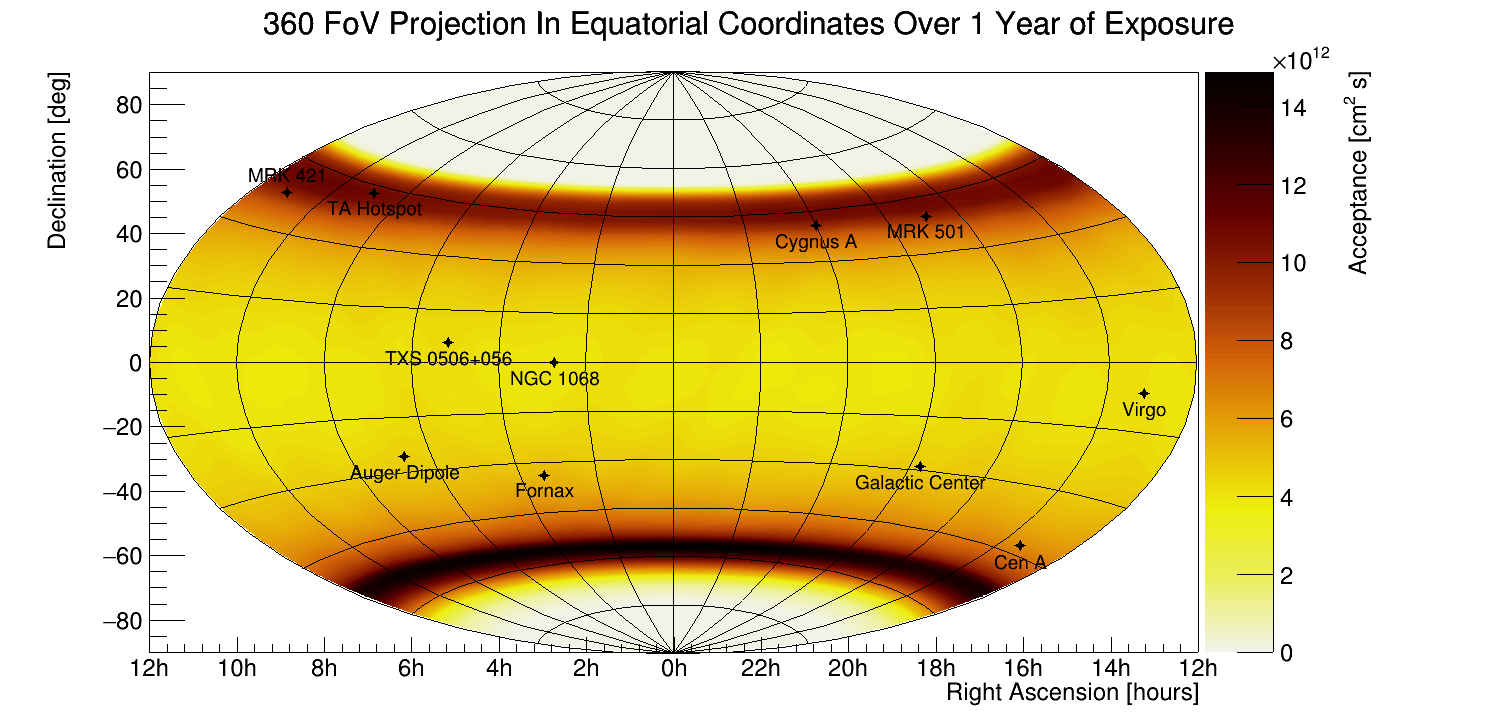
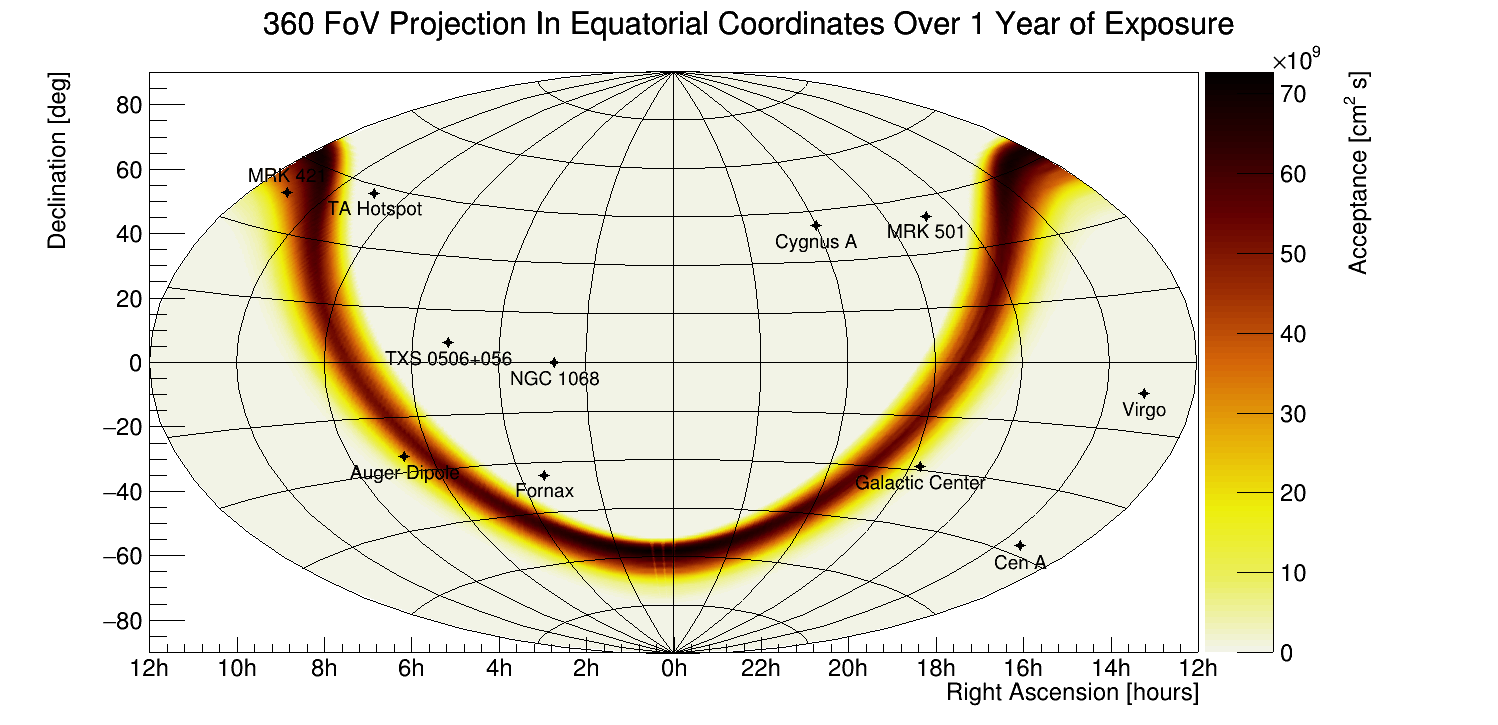
flux clacs

diff --git a/TrinityPerformanceCalculations.cpp b/TrinityPerformanceCalculations.cpp
@@ -3090,7 +3090,7 @@ void PlotAcceptanceSkymaps(TH1D *hTau)
 	gPad->SetLogz(1);
 	skymapFull360Sweep->Draw("COLZ"); //plot 360 sweep skymap
 	ifstream in;
-	in.open("1da.txt"); //open ephem file
+	in.open("1yr.txt"); //open ephem file
 	//~ return;
 	for(int r = -180; r <= 180; r++) { //filling the instant sky converage histogram
 		for(int d = -90; d <= 90; d++) {
@@ -3246,11 +3246,11 @@ void PlotAcceptanceSkymaps(TH1D *hTau)
 	//~ return;
 	
 	Double_t totalT = 0, totalAcc = 0, maxT = 0, minT = 999999;
-	int maxDay = -1, minDay = -1;
+	int maxDay = -1, minDay = -1, noObsdays = 0;
 	//calculations for the time evolution of the horizontal skymaps over various coordinate systems
 	if (in.is_open())
 	{
-		Double_t setTimeSun, riseTimeSun, riseTimeMoon, setTimeMoon, phaseMoon, deltaT = 0, tStepAdjusted; 
+		Double_t setTimeSun, riseTimeSun, riseTimeMoon, setTimeMoon, phaseMoon, deltaT = -1, tStepAdjusted; 
 		//~ Double_t origLST;
 		string sTimeS, rTimeS, rTimeM, sTimeM, phM;
 		bool nestNone = false, nestSun = false, nestBoth = false;
@@ -3334,6 +3334,8 @@ void PlotAcceptanceSkymaps(TH1D *hTau)
 				}
 			}
 			
+      // LST = 0;
+
 			totalT += deltaT;
 			nSteps = (int)(deltaT / tStep);
 			tStepAdjusted = deltaT / nSteps;
@@ -3361,6 +3363,11 @@ void PlotAcceptanceSkymaps(TH1D *hTau)
 				minDay = daycounter;
 			}
 			
+      if(deltaT == 0)
+      {
+        noObsdays++;
+      }
+
 			daycounter++;
 			//~ origLST = LST;
 			/*
@@ -3505,6 +3512,7 @@ void PlotAcceptanceSkymaps(TH1D *hTau)
 	cout<<"Longest observation window: "<<maxT * (24.0 / 360.0)<<" hours "<<"on day "<<maxDay<<endl;
 	cout<<"Shortest observation window: "<<minT * (24.0 / 360.0)<<" hours "<<"on day "<<minDay<<endl;
 	cout<<"Average observation time per night: "<<totalT * (24.0 / 360.0) / 365.25<<" hours."<<endl;
+  cout<<"Number of days where no observation was possible: "<<noObsdays<<endl;
 	
 	cout<<"Vertical FoV of telescope (deg): "<<vFov<<endl;
 	cout<<"Horizontal FoV of telescope (deg): "<<360<<endl;
@@ -3903,21 +3911,26 @@ void PlotAcceptanceSkymaps(TH1D *hTau)
 	cout<<"TA Hotspot Events: "<<nuevents->GetBinContent((int)(-133.503 + 181), (int)(43.1166 + 91))<<endl;
 	cout<<"NGC 1068 Events: "<<nuevents->GetBinContent((int)(-40.6698 + 181), (int)(-0.0132913 + 91))<<endl;
 	
-	int c = 0;
-	Double_t acc_t = 0;
-	int ra = 181 + 86;
-	
-	for(int i = 0; i < 90; i++)
-	{
-		acc_t += skymapProjEq->GetBinContent(ra, (i * (180 / 90) - 90.0) + 91);
-		cout << "Acc at dec " << (i * (180 / 90) - 90.0) << " deg : " << skymapProjEq->GetBinContent(ra, (i * (180 / 90) - 90.0) + 91) << endl;
-		if(skymapProjEq->GetBinContent(ra, (i * (180 / 90) - 90.0) + 91) > 0)
-		{
-			c++;
-		}
-	}
-	
-	cout<<"Avg: "<<acc_t/((double) c);
+  int nPoints = 5;
+	Double_t srcRA[nPoints];
+  Double_t srcDec[nPoints];
+
+  srcDec[0] = 0.;
+  srcDec[1] = 45.;
+  srcDec[2] = -57.;
+  srcDec[3] = -28.;
+  srcDec[4] = 6;
+  
+  srcRA[0] = -121; //these are opposite ra coords (these follow opposite -180 -> 0 -> 180 ra axis)
+  srcRA[1] = 143;
+  srcRA[2] = -74;
+  srcRA[3] = 65;
+  srcRA[4] = -127;
+
+  for(int i = 0; i < nPoints; i++)
+  {
+    cout<<"RA: "<<srcRA[i]<<" Dec: "<<srcDec[i]<<" Acceptance: "<<skymapProjEq->GetBinContent((int)(srcRA[i] + 181), (int)(srcDec[i] + 91))<<endl;
+  }
 }
 
 Double_t GetEventSingleSrc(TH1D *hTau, Double_t minElog, Double_t maxElog)
@@ -4685,7 +4698,8 @@ void SrcFoVTime2()
 	tStep = 0.25;
 	Double_t LST = 0;
 	Double_t degconv = pi/180.0;
-  Double_t obsTime = 0.25;
+  Double_t obsTime = 15;
+  int nPoints = 5;
 	
 	TCanvas *tele = new TCanvas("tele","tele", 1600, 750);
 	//~ tele->SetWindowSize(1600, 750);
@@ -4693,6 +4707,7 @@ void SrcFoVTime2()
 	TH2F *teleFOV = (TH2F*)fileD->Get("skymapFull360Sweep");
 	TH2F *teleProjEq = new TH2F("proj", "Projected FoV", 361, -180.05, 180.05, 181, -90.05, 90.05);
   TPad *pad = new TPad("pad","",0,0,1,1);
+  TMarker *srcMrks[nPoints];
 
   pad->SetFillStyle(4000);
   pad->SetFillColor(0);
@@ -4705,6 +4720,12 @@ void SrcFoVTime2()
 	tele->cd(1);
 	tele->SetRightMargin(0.2);
 	
+  for(int i = 0; i < nPoints; i++)
+  {
+    srcMrks[i] = new TMarker(0.,0., 43);
+    srcMrks[i]->SetMarkerSize(1.5);
+  }
+
   float conv=TMath::Pi()/180; 
   float la, lo, x, yy, z, xscale, yscale;
   int Nl = 13; // Number of drawn latitudes
@@ -4788,7 +4809,7 @@ void SrcFoVTime2()
 					az = az + 360.0;
 				int xBin = (int)((az + 180.1) * 10);
 				int yBin = (int)((alt + 90.1) * 10);
-				teleProjEq->Fill((-1 * r), d, teleFOV->GetBinContent(xBin, yBin));
+				teleProjEq->Fill((-1 * r), d, teleFOV->GetBinContent(xBin, yBin) * tStep * 240.);
 			}
 		}
 		LST += tStep;
@@ -4804,7 +4825,7 @@ void SrcFoVTime2()
 	
 	teleProjEq->GetXaxis()->SetTitle("Right Ascension [hours]");
 	teleProjEq->GetYaxis()->SetTitle("Declination [deg]");
-	teleProjEq->GetZaxis()->SetTitle("Acceptance [cm^{2}]");
+	teleProjEq->GetZaxis()->SetTitle("Acceptance [cm^{2} s]");
 	teleProjEq->GetXaxis()->SetNdivisions(-512);
 	teleProjEq->GetXaxis()->ChangeLabel(1,-1,-1,-1,-1,-1,"12h");
 	teleProjEq->GetXaxis()->ChangeLabel(2,-1,-1,-1,-1,-1,"10h");
@@ -4819,6 +4840,21 @@ void SrcFoVTime2()
 	teleProjEq->GetXaxis()->ChangeLabel(11,-1,-1,-1,-1,-1,"16h");
 	teleProjEq->GetXaxis()->ChangeLabel(12,-1,-1,-1,-1,-1,"14h");
 	teleProjEq->GetXaxis()->ChangeLabel(13,-1,-1,-1,-1,-1,"12h");
+
+  srcMrks[0]->SetX(-121); // RA: 121, Dec: 0
+  srcMrks[0]->SetY(0);
+
+  srcMrks[1]->SetX(106.016); // RA: -143, Dec: 45
+  srcMrks[1]->SetY(55.8966);
+
+  srcMrks[2]->SetX(-46.7512); // RA: 74, Dec: -57
+  srcMrks[2]->SetY(-59.8111);
+
+  srcMrks[3]->SetX(59.5208); // RA: -65, Dec: -28
+  srcMrks[3]->SetY(-29.4508);
+
+  srcMrks[4]->SetX(-126.444); // RA: 127, Dec: 6
+  srcMrks[4]->SetY(7.425);
 	
 	teleFOV->SetContour(99);
 	teleProjEq->SetContour(99);
@@ -4829,6 +4865,11 @@ void SrcFoVTime2()
 
   for (int j=0;j<Nl;++j) latitudes[j]->Draw("C");
   for (int j=0;j<NL;++j) longitudes[j]->Draw("C");
+
+  for(int i = 0; i < nPoints; i++)
+  {
+    srcMrks[i]->Draw();
+  }
 }
 
 ////////////////////////////////////////////////////////////////////
@@ -4978,7 +5019,7 @@ PlotAcceptanceSkymaps(hTau);
 //~ PlotSrcInstantAccVsE(hTau);
 //~ SrcEventTest(hTau);
  //~ SrcFoVTime(hTau);
-//~ SrcFoVTime2();
+ // SrcFoVTime2();
 // PlotFlareFlux();
 
 /*
